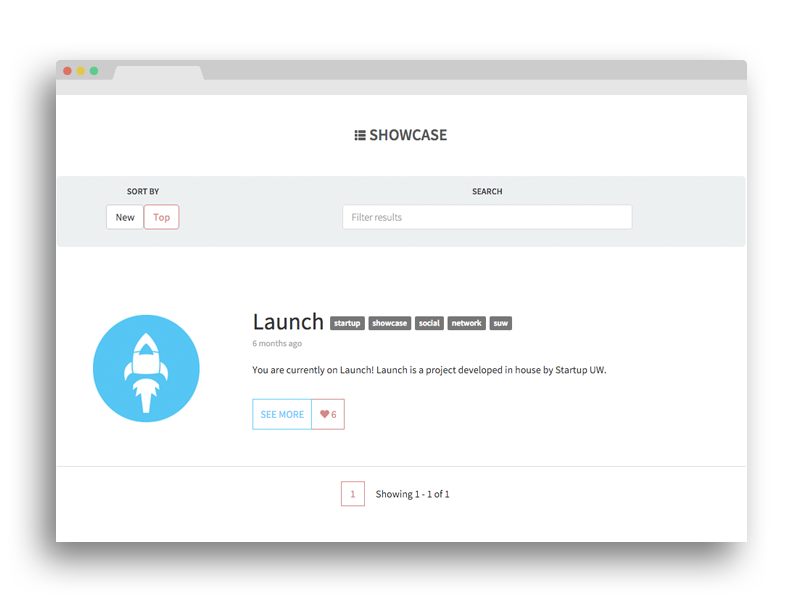
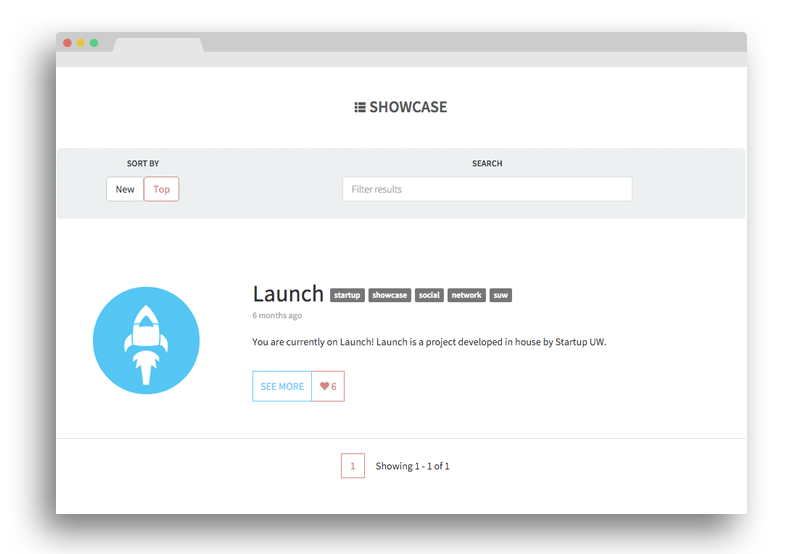
Layout and error changes

diff --git a/web/public/css/layout.css b/web/public/css/layout.css
@@ -52,7 +52,8 @@ html, body {
 
 section {
   max-width: 950px;
-  margin: auto; }
+  margin: auto;
+  min-height: 200px; }
 
 #footer {
   font-size: 1em;

diff --git a/web/lib/sass/layout.sass b/web/lib/sass/layout.sass
@@ -68,6 +68,7 @@ html, body
 section
   max-width: 950px
   margin: auto
+  min-height: 200px
 
 #footer
     font-size: $primary-font-size
